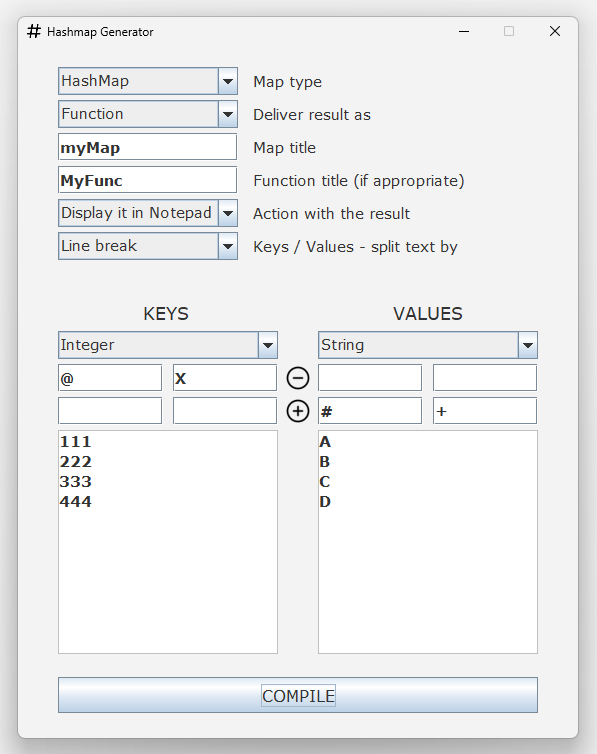
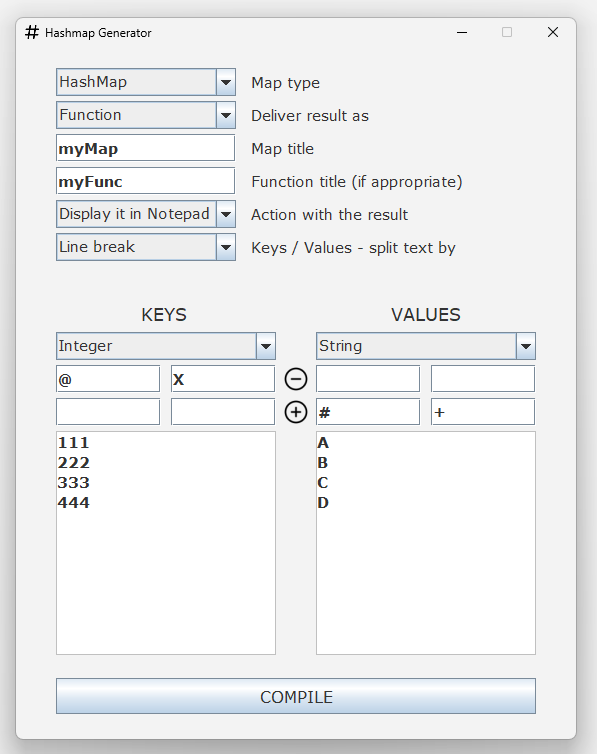
textArea auto scrolling added

diff --git a/src/Ui.java b/src/Ui.java
@@ -1,20 +1,19 @@
 package src;
 
-import javax.swing.BorderFactory;
 import javax.swing.ImageIcon;
 import javax.swing.JButton;
 import javax.swing.JComboBox;
 import javax.swing.JFrame;
 import javax.swing.JLabel;
 import javax.swing.JOptionPane;
+import javax.swing.JPanel;
+import javax.swing.JScrollPane;
 import javax.swing.JTextArea;
 import javax.swing.JTextField;
-import javax.swing.border.Border;
 
 import java.awt.Toolkit;
 import java.awt.Image;
 import java.awt.Font;
-import java.awt.Color;
 import java.awt.event.ActionEvent;
 import java.awt.event.ActionListener;
 import java.util.HashMap;
@@ -23,6 +22,11 @@ import java.awt.Component;
 
 public class Ui {
 
+    // FRAME << PANEL << WIDGETS
+    // FRAME: - , PANEL: .setLayout(null);
+    // >> allows to use abs. positioning
+    // with texArea`s auto-scrolling functionality
+    static JPanel panel = new JPanel();
     static JFrame frame = new JFrame();
     static Data da = new Data();
     static Functions fs = new Functions();
@@ -32,11 +36,9 @@ public class Ui {
         Image icon = Toolkit.getDefaultToolkit().getImage("./docs/icon_window.png");
         frame.setIconImage(icon);
         frame.setTitle("Hashmap Generator");
-        frame.setLayout(null);
         frame.setBounds(da.FRAME_POS_X, da.FRAME_POS_Y, da.FRAME_WIDTH, da.FRAME_HEIGHT);
         frame.getContentPane().setBackground(new java.awt.Color(243, 243, 243));
-        frame.setResizable(false);
-        frame.setVisible(true);
+        frame.setResizable(false);     
     }    
 
     
@@ -149,16 +151,21 @@ public class Ui {
         JTextField textFieldValuesAddRight = new JTextField();
         textFieldValuesAddRight.setFont(field_font_style);
 
-        // TEXT AREAS
-        JTextArea textAreaKeys = new JTextArea();
-        textAreaKeys.setFont(field_font_style);
-
-        JTextArea textAreaValues = new JTextArea();
-        textAreaValues.setFont(field_font_style);
-
         // IMAGES
         addImage("remove", 9);
         addImage("add", 10);
+        
+        // TEXT AREAS
+        // JScrollPane >> auto-scroll when text overreaching 
+        JTextArea textAreaKeys = new JTextArea();
+        textAreaKeys.setFont(field_font_style);
+        JScrollPane textAreaKeysScrollPane = new JScrollPane(textAreaKeys);
+      
+
+        JTextArea textAreaValues = new JTextArea();
+        textAreaValues.setFont(field_font_style);
+        JScrollPane textAreaValuesScrollPane = new JScrollPane(textAreaValues);
+
 
         
         JButton buttonCompile = new JButton("COMPILE");
@@ -236,12 +243,9 @@ public class Ui {
         textFieldValuesAddLeft.setBounds(keysPosBaseX, da.getPosY(keysValuesPosYstarting + 2), trimAndAddFieldsWidth, da.WIDGET_HEIGHT);
         textFieldValuesAddRight.setBounds(keysPosRightX, da.getPosY(keysValuesPosYstarting + 2), trimAndAddFieldsWidth, da.WIDGET_HEIGHT);
 
-
-        textAreaKeys.setBounds(da.BASE_X, da.getPosY(keysValuesPosYstarting + 3), da.keyAndValueWidgetsWidth, da.WIDGET_HEIGHT*8);
-        textAreaValues.setBounds(keysPosBaseX, da.getPosY(keysValuesPosYstarting + 3), da.keyAndValueWidgetsWidth, da.WIDGET_HEIGHT*8);
-        Border border = BorderFactory.createLineBorder(Color.LIGHT_GRAY);
-        textAreaKeys.setBorder(border);
-        textAreaValues.setBorder(border);
+        // textAreaKeys, textAreaKeys POSITIONING
+        textAreaKeysScrollPane.setBounds(da.BASE_X, da.getPosY(keysValuesPosYstarting + 3), da.keyAndValueWidgetsWidth, da.WIDGET_HEIGHT*8);
+        textAreaValuesScrollPane.setBounds(keysPosBaseX, da.getPosY(keysValuesPosYstarting + 3), da.keyAndValueWidgetsWidth, da.WIDGET_HEIGHT*8);
 
    
         int buttonCompileHeight = (int)(da.WIDGET_HEIGHT*1.3);
@@ -276,18 +280,20 @@ public class Ui {
             textFieldValuesAddLeft,
             textFieldValuesAddRight,
 
-            textAreaKeys,
-            textAreaValues,
+            // ADDING textAreaKeys, textAreaKeys
+            textAreaKeysScrollPane,     
+            textAreaValuesScrollPane,
 
             buttonCompile
         };
 
         for (Component widget : widgets_array) {
-           frame.add(widget);
+           panel.add(widget);
         }
 
-        
+        panel.setLayout(null);  // absolute positioning
+        frame.add(panel);
+        frame.setVisible(true);
         createWindow();
     }
-
 }
